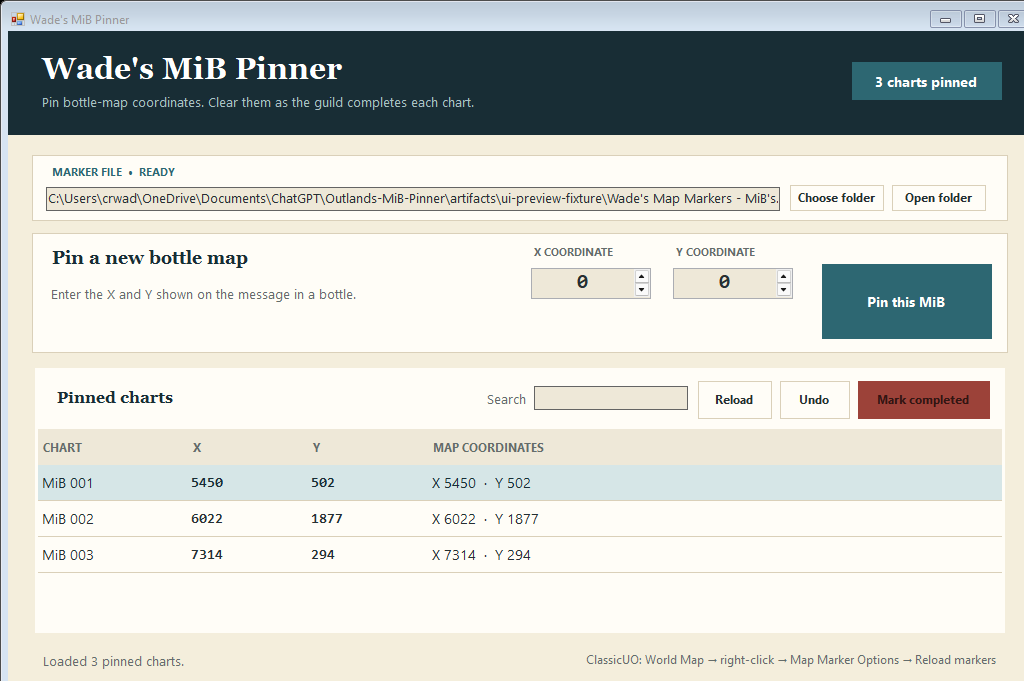
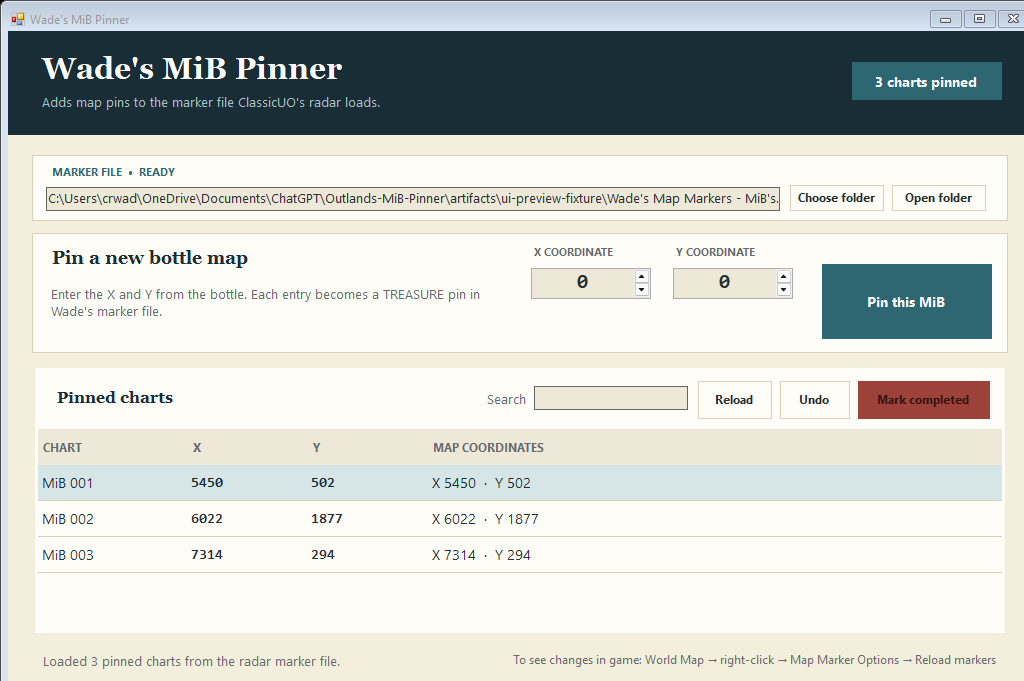
docs: clarify radar marker refresh flow

diff --git a/src/WadesMiBPinner/MainForm.Actions.cs b/src/WadesMiBPinner/MainForm.Actions.cs
@@ -30,7 +30,7 @@ namespace WadesMiBPinner
                 UpdateAccessState();
                 PopulateGrid();
                 SetStatus(_store.FileExists
-                    ? "Loaded " + _store.Markers.Count + " pinned chart" + PluralSuffix(_store.Markers.Count) + "."
+                    ? "Loaded " + _store.Markers.Count + " pinned chart" + PluralSuffix(_store.Markers.Count) + " from the radar marker file."
                     : "Ready to create " + MarkerFileStore.MarkerFileName + " when you add the first marker.", false);
             }
             catch (Exception exception)
@@ -145,7 +145,7 @@ namespace WadesMiBPinner
                 _xInput.Value = 0;
                 _yInput.Value = 0;
                 _xInput.Focus();
-                SetStatus("Pinned " + marker.Name + " at X " + marker.X + ", Y " + marker.Y + ". Reload markers in ClassicUO to see it.", false);
+                SetStatus("Pinned " + marker.Name + " at X " + marker.X + ", Y " + marker.Y + " in the radar marker file. Reload markers in ClassicUO to see it.", false);
             }
             catch (UnauthorizedAccessException)
             {
@@ -199,7 +199,7 @@ namespace WadesMiBPinner
             {
                 _store.Remove(selected);
                 PopulateGrid();
-                SetStatus("Completed " + selected.Count + " chart" + PluralSuffix(selected.Count) + ". Reload markers in ClassicUO to clear " + (selected.Count == 1 ? "it" : "them") + ".", false);
+                SetStatus("Removed " + selected.Count + " completed chart" + PluralSuffix(selected.Count) + " from the radar marker file. Reload markers in ClassicUO to update the map.", false);
             }
             catch (UnauthorizedAccessException)
             {
@@ -234,7 +234,7 @@ namespace WadesMiBPinner
             {
                 _store.RestoreBackup();
                 PopulateGrid();
-                SetStatus("Restored the previous marker file. Reload markers in ClassicUO to refresh the map.", false);
+                SetStatus("Restored the previous radar marker file. Reload markers in ClassicUO to refresh the map.", false);
             }
             catch (Exception exception)
             {

diff --git a/src/WadesMiBPinner/MainForm.Layout.cs b/src/WadesMiBPinner/MainForm.Layout.cs
@@ -71,7 +71,7 @@ namespace WadesMiBPinner
 
             Label subtitle = new Label();
             subtitle.AutoSize = true;
-            subtitle.Text = "Pin bottle-map coordinates. Clear them as the guild completes each chart.";
+            subtitle.Text = "Adds map pins to the marker file ClassicUO's radar loads.";
             subtitle.ForeColor = DeepWaterMuted;
             subtitle.Location = new Point(31, 62);
             header.Controls.Add(subtitle);
@@ -196,7 +196,7 @@ namespace WadesMiBPinner
 
             Label help = new Label();
             help.AutoSize = true;
-            help.Text = "Enter the X and Y shown on the message in a bottle.";
+            help.Text = "Enter the X and Y from the bottle. Each entry becomes a TREASURE pin in Wade's marker file.";
             help.ForeColor = MutedInk;
             help.Margin = new Padding(0, 10, 0, 0);
             table.Controls.Add(help, 0, 1);
@@ -435,7 +435,7 @@ namespace WadesMiBPinner
             reloadHelp.Dock = DockStyle.Fill;
             reloadHelp.ForeColor = MutedInk;
             reloadHelp.Font = new Font("Segoe UI", 8.5F, FontStyle.Regular, GraphicsUnit.Point);
-            reloadHelp.Text = "ClassicUO: World Map → right-click → Map Marker Options → Reload markers";
+            reloadHelp.Text = "To see changes in game: World Map → right-click → Map Marker Options → Reload markers";
             reloadHelp.TextAlign = ContentAlignment.TopRight;
             table.Controls.Add(reloadHelp, 1, 0);
             return panel;

diff --git a/tests/MarkerFileStoreTests.cs b/tests/MarkerFileStoreTests.cs
@@ -92,12 +92,12 @@ internal static class MarkerFileStoreTests
         WithTemporaryDirectory(directory =>
         {
             string path = Path.Combine(directory, MarkerFileStore.MarkerFileName);
-            string xml = "<?xml version=\"1.0\" encoding=\"UTF-8\"?><Pack Name=\"Custom\" Revision=\"7\" Extra=\"keep\">\n<!-- guild note -->\n#Ossuary Expansion\n<Unknown Value=\"keep\"/>\n<Marker Name=\"Old\" X=\"10\" Y=\"20\" Icon=\"TREASURE\" Facet=\"0\"/>\n</Pack>";
+            string xml = "<?xml version=\"1.0\" encoding=\"UTF-8\"?><Pack Name=\"Custom\" Revision=\"7\" Extra=\"keep\">\n<!-- preserved note -->\n#Ossuary Expansion\n<Unknown Value=\"keep\"/>\n<Marker Name=\"Old\" X=\"10\" Y=\"20\" Icon=\"TREASURE\" Facet=\"0\"/>\n</Pack>";
             File.WriteAllText(path, xml, new UTF8Encoding(false));
             MarkerFileStore store = new MarkerFileStore(directory);
             store.Add(30, 40);
             string saved = File.ReadAllText(path);
-            Assert(saved.Contains("guild note"), "Comment was lost.");
+            Assert(saved.Contains("preserved note"), "Comment was lost.");
             Assert(saved.Contains("#Ossuary Expansion"), "Text node was lost.");
             Assert(saved.Contains("<Unknown Value=\"keep\""), "Unknown element was lost.");
             Assert(saved.Contains("Extra=\"keep\""), "Unknown root attribute was lost.");

diff --git a/tests/UiSmokeTests.cs b/tests/UiSmokeTests.cs
@@ -22,6 +22,10 @@ internal static class UiSmokeTests
                 MethodInfo loadDirectory = typeof(MainForm).GetMethod("LoadDirectory", BindingFlags.Instance | BindingFlags.NonPublic);
                 loadDirectory.Invoke(form, new object[] { directory, false });
 
+                FindControl<Label>(form, control => control.Text == "Adds map pins to the marker file ClassicUO's radar loads.");
+                FindControl<Label>(form, control => control.Text.Contains("Each entry becomes a TREASURE pin"));
+                FindControl<Label>(form, control => control.Text.StartsWith("To see changes in game:"));
+
                 NumericUpDown x = FindControl<NumericUpDown>(form, control => control.AccessibleName == "X coordinate");
                 NumericUpDown y = FindControl<NumericUpDown>(form, control => control.AccessibleName == "Y coordinate");
                 FindControl<Button>(form, control => control.Text == "Pin this MiB");

diff --git a/src/WadesMiBPinner/Properties/AssemblyInfo.cs b/src/WadesMiBPinner/Properties/AssemblyInfo.cs
@@ -8,6 +8,6 @@ using System.Runtime.InteropServices;
 [assembly: AssemblyCopyright("Copyright © 2026 Chris Wade")]
 [assembly: ComVisible(false)]
 [assembly: Guid("9e705f0d-78a7-4660-9cc8-acde1567263f")]
-[assembly: AssemblyVersion("1.0.0.0")]
-[assembly: AssemblyFileVersion("1.0.0.0")]
+[assembly: AssemblyVersion("1.0.1.0")]
+[assembly: AssemblyFileVersion("1.0.1.0")]
 

diff --git a/README.md b/README.md
@@ -1,6 +1,6 @@
 # Wade's MiB Pinner
 
-A tiny, portable Windows app for adding message-in-a-bottle coordinates to the Ultima Online Outlands ClassicUO World Map—and removing each marker when the guild finishes the chart.
+A tiny, portable Windows app for adding message-in-a-bottle coordinates to the Ultima Online Outlands ClassicUO World Map—and removing each marker when the chart is completed.
 
 It has no installer, no account, no server, and no runtime to download. The release is a single Windows `.exe` built against the .NET Framework already included with Windows 10 and 11.
 
@@ -13,6 +13,12 @@ It has no installer, no account, no server, and no runtime to download. The rele
 3. In ClassicUO, open the World Map, right-click it, choose **Map Marker Options**, then reload markers.
 
 Select one or more charts and choose **Mark completed** to remove their markers. **Undo** restores the most recent backup.
+
+## How it works
+
+ClassicUO's radar system loads map pins from XML marker files in its `Data\Client` folder. Every coordinate added in Wade's MiB Pinner becomes a `TREASURE` map pin in `Wade's Map Markers - MiB's.xml`. Completing or undoing a chart updates that same file.
+
+ClassicUO does not automatically notice those file changes. After adding, removing, or restoring a marker, open the World Map, right-click it, choose **Map Marker Options**, and select **Reload markers** before the change will appear in game.
 
 > Windows may show a SmartScreen warning because this free utility is not code-signed. If you downloaded it from this repository, compare its SHA-256 value with `SHA256SUMS.txt` in the release before running it.
 
